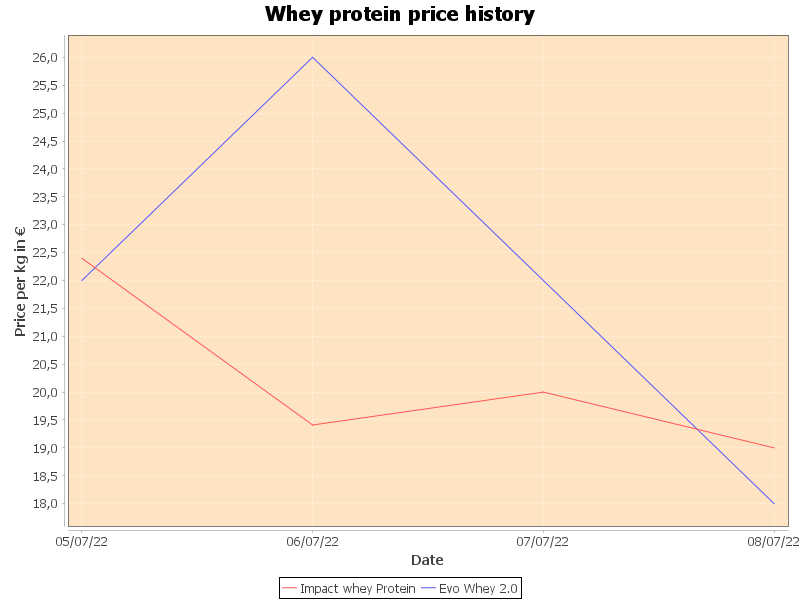
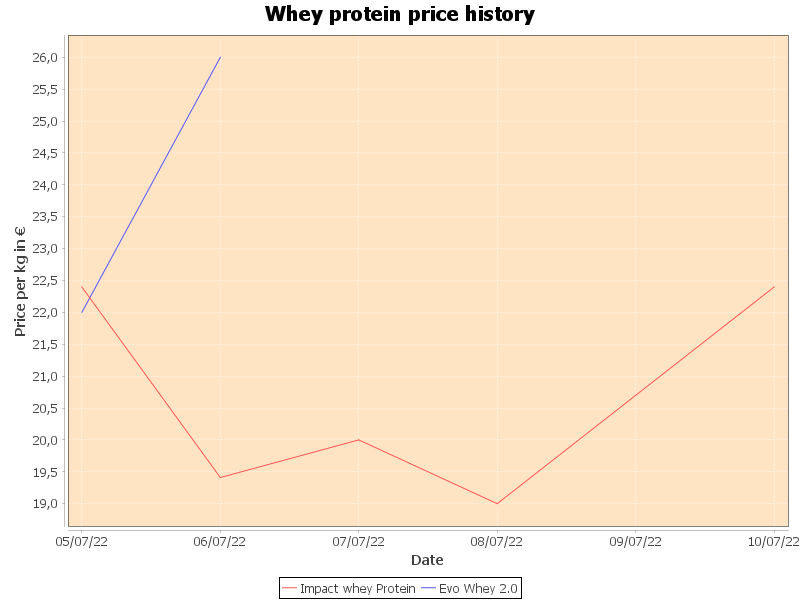
Chart.updatePrices()

diff --git a/whey-pricing/src/com/davidpoza/Product.java b/whey-pricing/src/com/davidpoza/Product.java
@@ -5,7 +5,6 @@ import java.sql.PreparedStatement;
 import java.sql.ResultSet;
 import java.sql.SQLException;
 import java.time.LocalDateTime;
-import java.time.format.DateTimeFormatter;
 import java.util.ArrayList;
 
 public class Product {
@@ -14,6 +13,7 @@ public class Product {
   private String name;
   private String url;
   private String brand;
+  private Double kg;
   private ArrayList<Price> prices;
   
   public enum Brand {
@@ -23,13 +23,14 @@ public class Product {
     BULKPOWDERS
   }
   
-  public Product(Connection con, int id, String name, String url, String brand) {
+  public Product(Connection con, int id, String name, String url, String brand, Double kg) {
     super();
     this.con = con;
     this.name = name;
     this.url = url;
     this.brand = brand;  
     this.id = id;
+    this.setKg(kg);
     this.prices = new ArrayList<Price>();
     this.readPrices();
   }
@@ -41,20 +42,9 @@ public class Product {
       statement.setInt(1, this.id);
       statement.execute();
       ResultSet rs = statement.getResultSet();
-      Price p = null;
       while(rs.next()) {
-        switch(Brand.valueOf(this.brand)) {
-          case MYPROTEIN:
-            p = new MyProteinPrice(con, this.url, LocalDateTime.parse(rs.getString("date")), 1.0, rs.getDouble("amount"), this);
-            break;
-          case HSN:
-            p = new HsnPrice(con, this.url, LocalDateTime.parse(rs.getString("date")), 1.0, rs.getDouble("amount"), this);
-            break;
-          case PROZIS:
-            break;
-          case BULKPOWDERS:
-            break;
-        }
+        Price p = null;
+        p = new PriceFactory(con, this.brand, this.url, LocalDateTime.parse(rs.getString("date")), rs.getDouble("amount"), this).getPrice();
         this.prices.add(p);
       }
     } catch (SQLException e) {
@@ -102,6 +92,14 @@ public class Product {
 
   public void setId(int id) {
     this.id = id;
+  }
+
+  public Double getKg() {
+    return kg;
+  }
+
+  public void setKg(Double kg) {
+    this.kg = kg;
   }
   
 }

diff --git a/whey-pricing/src/com/davidpoza/Price.java b/whey-pricing/src/com/davidpoza/Price.java
@@ -3,13 +3,9 @@ package com.davidpoza;
 import java.io.IOException;
 import java.sql.Connection;
 import java.sql.PreparedStatement;
-import java.sql.ResultSet;
-import java.sql.ResultSetMetaData;
-import java.sql.ResultSetMetaData;
 import java.sql.SQLException;
 import java.time.LocalDateTime;
 import java.time.format.DateTimeFormatter;
-import java.util.ArrayList;
 import java.util.regex.Matcher;
 import java.util.regex.Pattern;
 
@@ -24,10 +20,19 @@ public class Price {
   protected Double kg;
   protected Connection con;
   
-  public Price(Connection con, String url, LocalDateTime date, Double kg, Double amount, Product product) {
+  public Price(Connection con) {
+    this.url = null;
+    this.kg = null;
+    this.discount = 0d;
+    this.date = null;
+    this.product = null;
+    this.con = con;
+    this.amount = null;
+  }
+  
+  public Price(Connection con, String url, LocalDateTime date, Double amount, Product product) {
     super();
     this.url = url;
-    this.kg = kg;
     this.discount = 0.0;
     this.date = date;
     this.product = product;
@@ -35,8 +40,8 @@ public class Price {
     this.amount = amount;
   }
   
-  public Price(Connection con, String url, Double kg, Double amount, Product product) {
-    this(con, url, LocalDateTime.now(), kg, amount, product);
+  public Price(Connection con, String url, Double amount, Product product) {
+    this(con, url, LocalDateTime.now(), amount, product);
   }
 
   protected Double parsePrice(String price) throws Exception {
@@ -91,14 +96,6 @@ public class Price {
 
   public void setDiscount(Double discount) {
     this.discount = discount;
-  }
-
-  public Double getKg() {
-    return kg;
-  }
-
-  public void setKg(Double kg) {
-    this.kg = kg;
   }
 
   public LocalDateTime getDate() {

diff --git a/whey-pricing/src/com/davidpoza/HsnPrice.java b/whey-pricing/src/com/davidpoza/HsnPrice.java
@@ -8,13 +8,17 @@ import org.jsoup.nodes.Document;
 import org.jsoup.select.Elements;
 
 public class HsnPrice extends Price {
+  
+  HsnPrice(Connection con) {
+    super(con);
+  }
 
-  public HsnPrice(Connection con, String url, LocalDateTime date, Double kg, Double amount, Product product) {
-    super(con, url, date, kg, amount, product);
+  public HsnPrice(Connection con, String url, LocalDateTime date, Double amount, Product product) {
+    super(con, url, date, amount, product);
   }
   
-  public HsnPrice(Connection con, String url, Double kg, Double amount, Product product) {
-    super(con, url, kg, amount, product);
+  public HsnPrice(Connection con, String url, Double amount, Product product) {
+    super(con, url, amount, product);
   }
   
   @Override
@@ -28,13 +32,14 @@ public class HsnPrice extends Price {
     if (price.isEmpty()) throw new Exception("Price not found");
     String s = price.first().text();
 //    this.checkDiscount(doc);
-    if (this.getKg() == 2d) this.setDiscount(20d);
-    else if(this.getKg() == 4d)this.setDiscount(25d);
+    if (this.getProduct().getKg() == 2d) this.setDiscount(20d);
+    else if(this.getProduct().getKg() == 4d) this.setDiscount(25d);
     Double p = this.parsePrice(s);
     if (this.getDiscount() > 0) {
       p *= 1 - this.getDiscount()/100;
     }
     this.setAmount(p / refKg);
+    this.setDate(LocalDateTime.now());
     System.out.println("Price found! " + this.getAmount());
   };
 }

diff --git a/whey-pricing/src/com/davidpoza/PriceChart.java b/whey-pricing/src/com/davidpoza/PriceChart.java
@@ -38,11 +38,11 @@ public class PriceChart {
   
   public void getAllProducts() {
     try {
-      PreparedStatement statement = con.prepareStatement("SELECT id, name, url, brand FROM products_tbl");
+      PreparedStatement statement = con.prepareStatement("SELECT id, name, url, brand, kg FROM products_tbl");
       statement.execute();
       ResultSet rs = statement.getResultSet();
       while(rs.next()) {
-        this.products.add(new Product(con, rs.getInt("id"), rs.getString("name"), rs.getString("url"), rs.getString("brand")));
+        this.products.add(new Product(con, rs.getInt("id"), rs.getString("name"), rs.getString("url"), rs.getString("brand"), rs.getDouble("kg")));
       }
     } catch (SQLException e) {
       e.printStackTrace();
@@ -87,5 +87,23 @@ public class PriceChart {
     } catch (IOException ex) {
         
     }
+  }
+  
+  public void updatePrices( ) {
+    for (int i = 0; i < products.size(); i++) {
+      Product p = products.get(i);
+      Price newPrice = new PriceFactory(con, p.getBrand()).getPrice();
+      newPrice.setUrl(p.getUrl());
+      newPrice.setProduct(p);
+      try {
+        newPrice.scrapPrice();
+      } catch (IOException e) {
+        e.printStackTrace();
+      } catch (Exception e) {
+        e.printStackTrace();
+      }
+      newPrice.save();
+    }
+  
   }
 }

diff --git a/whey-pricing/src/com/davidpoza/PriceFactory.java b/whey-pricing/src/com/davidpoza/PriceFactory.java
@@ -1,0 +1,57 @@
+package com.davidpoza;
+
+import java.sql.Connection;
+import java.time.LocalDateTime;
+
+
+public class PriceFactory {
+  private Price price;
+  public enum Brand {
+    MYPROTEIN,
+    HSN,
+    PROZIS,
+    BULKPOWDERS
+  }
+
+  PriceFactory(Connection con, String brand, String url, LocalDateTime date, Double amount, Product product) {
+    this.price = null;
+    switch(Brand.valueOf(brand)) {
+      case MYPROTEIN:
+        this.price = new MyProteinPrice(con, url, date, amount, product);
+        break;
+      case HSN:
+        this.price = new HsnPrice(con, url, date, amount, product);
+        break;
+      case PROZIS:
+        break;
+      case BULKPOWDERS:
+        break;
+    };
+  }
+  
+  PriceFactory(Connection con, String brand) {
+    this.price = null;
+    switch(Brand.valueOf(brand)) {
+      case MYPROTEIN:
+        this.price = new MyProteinPrice(con);
+        break;
+      case HSN:
+        this.price = new HsnPrice(con);
+        break;
+      case PROZIS:
+        break;
+      case BULKPOWDERS:
+        break;
+    };
+  }
+
+  public Price getPrice() {
+    return price;
+  }
+
+  public void setPrice(Price p) {
+    this.price = p;
+  }
+  
+  
+}

diff --git a/whey-pricing/src/com/davidpoza/MyProteinPrice.java b/whey-pricing/src/com/davidpoza/MyProteinPrice.java
@@ -10,12 +10,17 @@ import org.jsoup.nodes.Document;
 import org.jsoup.select.Elements;
 
 public class MyProteinPrice extends Price {
-  public MyProteinPrice(Connection con, String url, LocalDateTime date, Double kg, Double amount, Product product) {
-    super(con, url, date, kg, amount, product);
+  
+  public MyProteinPrice(Connection con) {
+    super(con);
   }
   
-  public MyProteinPrice(Connection con, String url, Double kg, Double amount, Product product) {
-    super(con, url, kg, amount, product);
+  public MyProteinPrice(Connection con, String url, LocalDateTime date, Double amount, Product product) {
+    super(con, url, date, amount, product);
+  }
+  
+  public MyProteinPrice(Connection con, String url, Double amount, Product product) {
+    super(con, url, amount, product);
   }
   
   @Override
@@ -31,7 +36,8 @@ public class MyProteinPrice extends Price {
     if (this.getDiscount() > 0) {
       p *= 1 - this.getDiscount()/100;
     }
-    this.setAmount(p);
+    this.setAmount(p / this.getProduct().getKg());
+    this.setDate(LocalDateTime.now());
     System.out.println("Price found! " + this.getAmount());
   };
   

diff --git a/whey-pricing/src/com/davidpoza/WheyPricing.java b/whey-pricing/src/com/davidpoza/WheyPricing.java
@@ -8,6 +8,7 @@ public class WheyPricing {
   public static void main(String[] args) throws Exception {
     final Connection con = DbConnection.connect();
       PriceChart chart = new PriceChart(con, null, null);
+      chart.updatePrices();
       chart.draw();
     
     if (con != null) {
